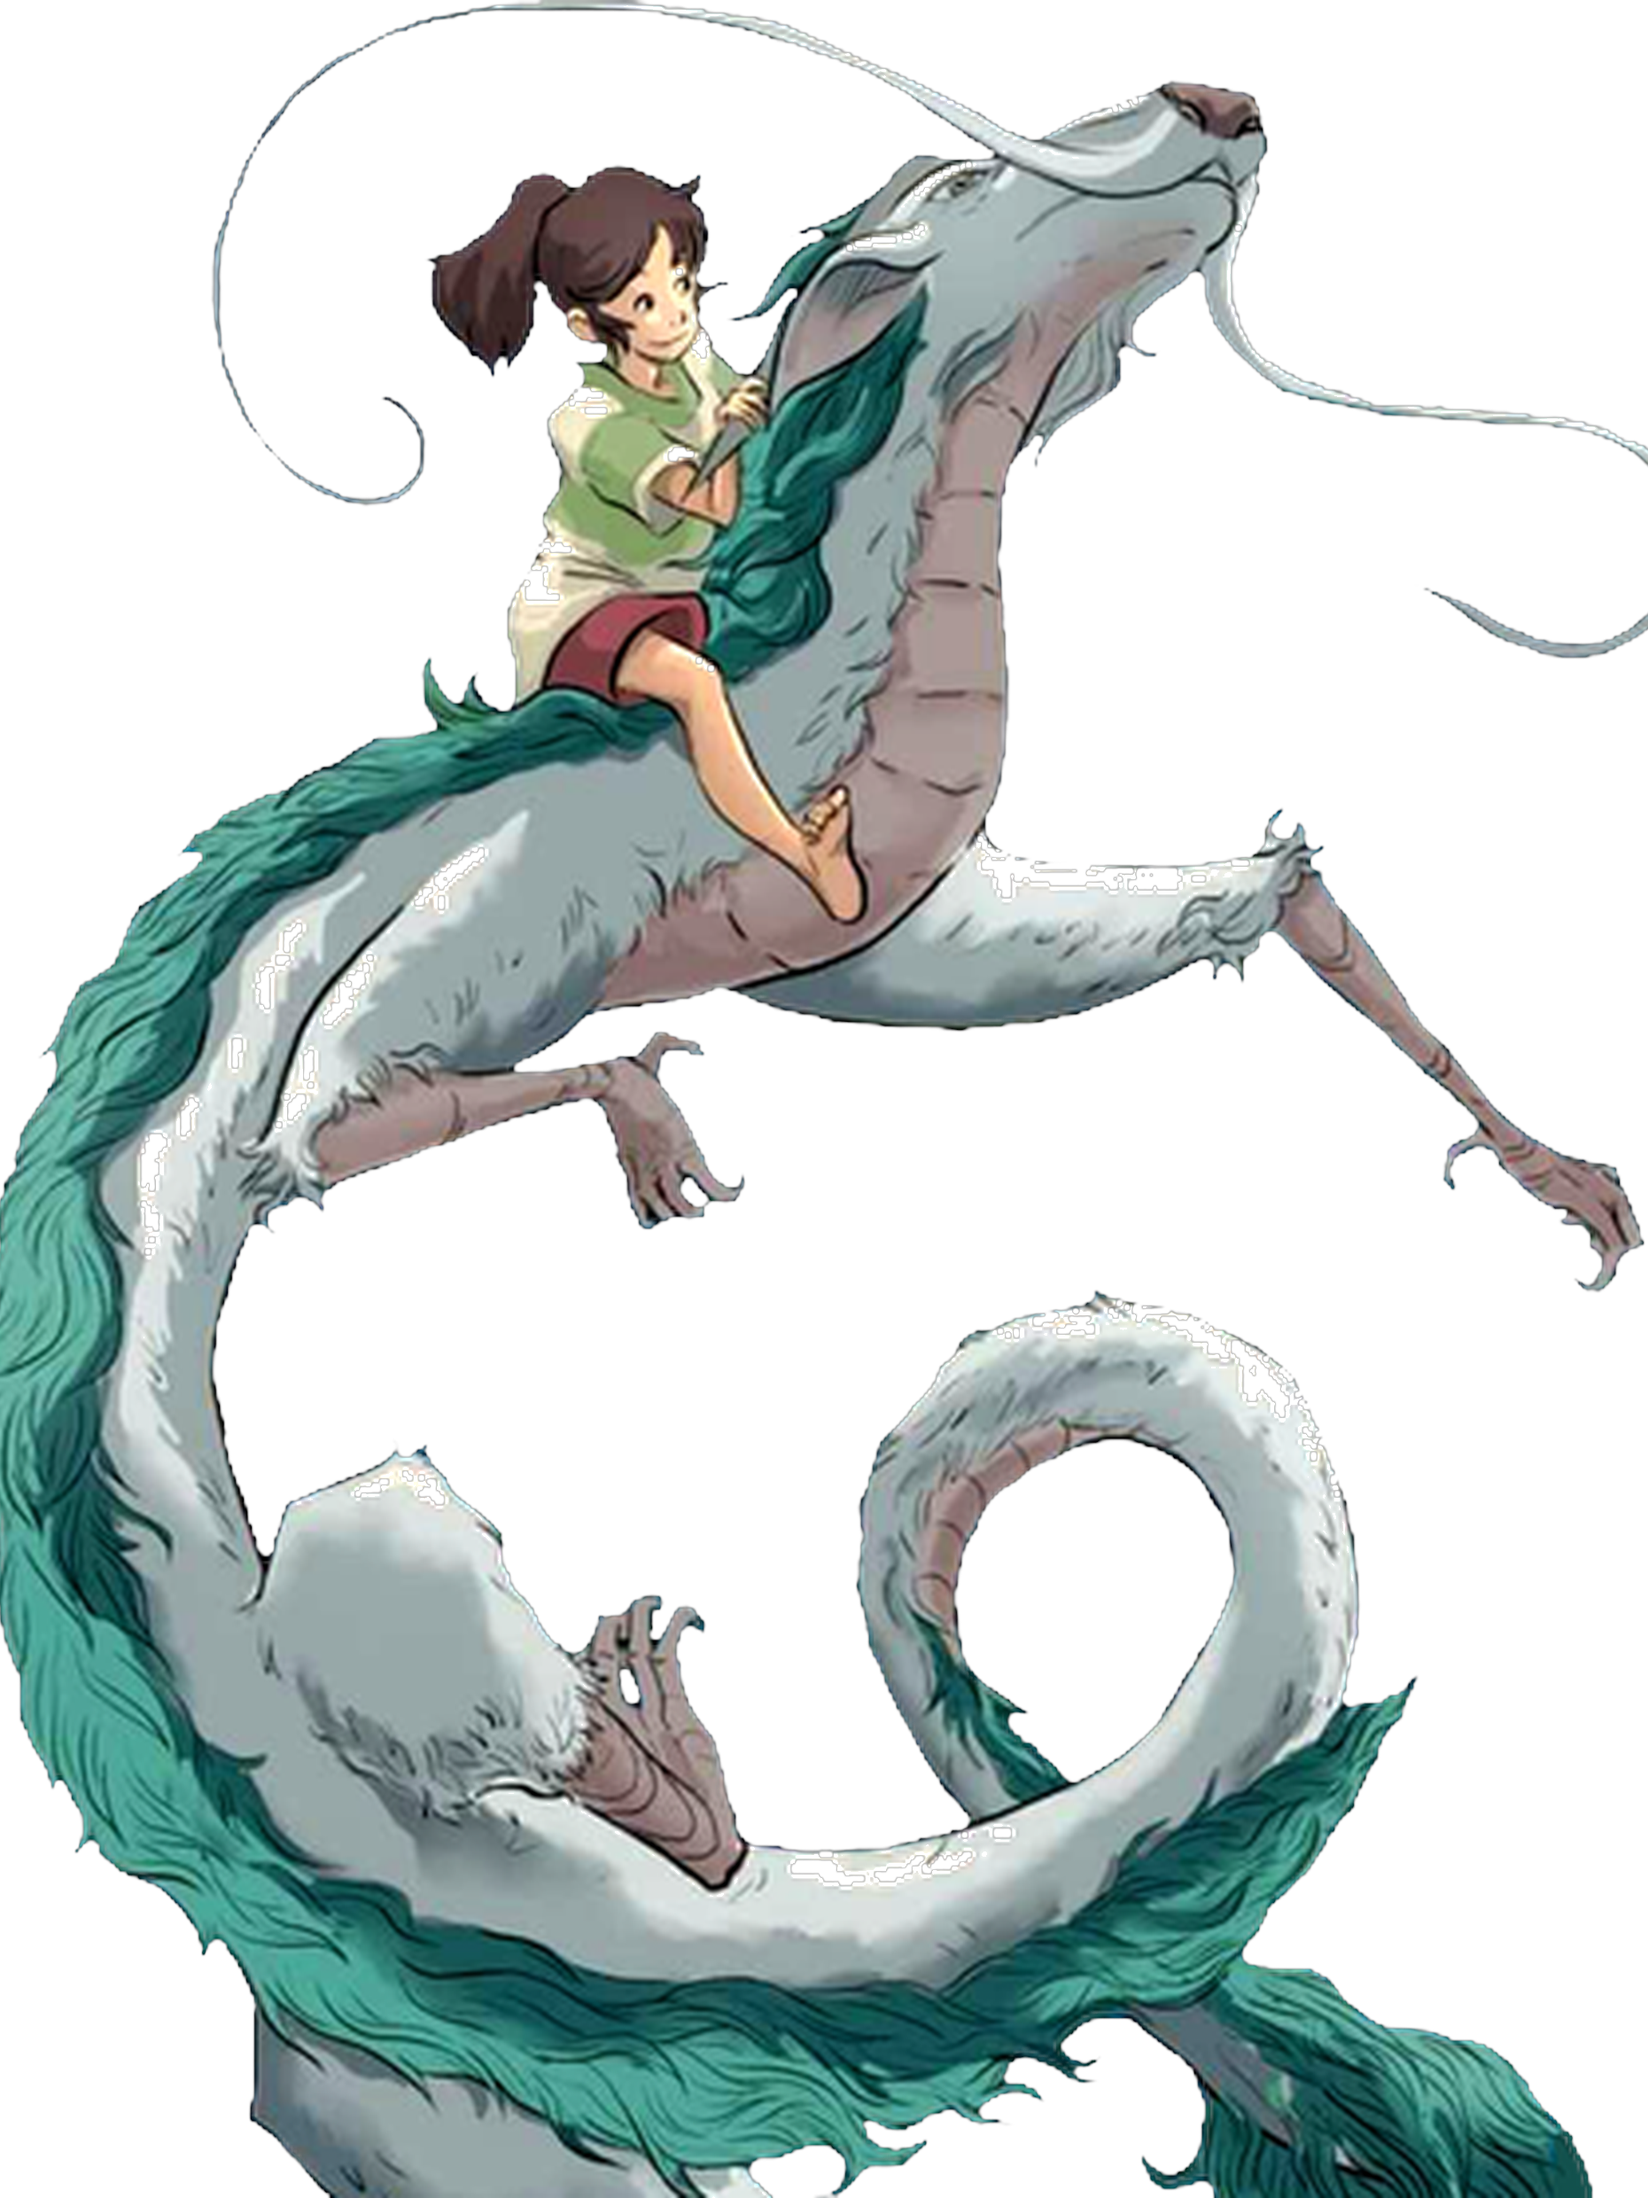
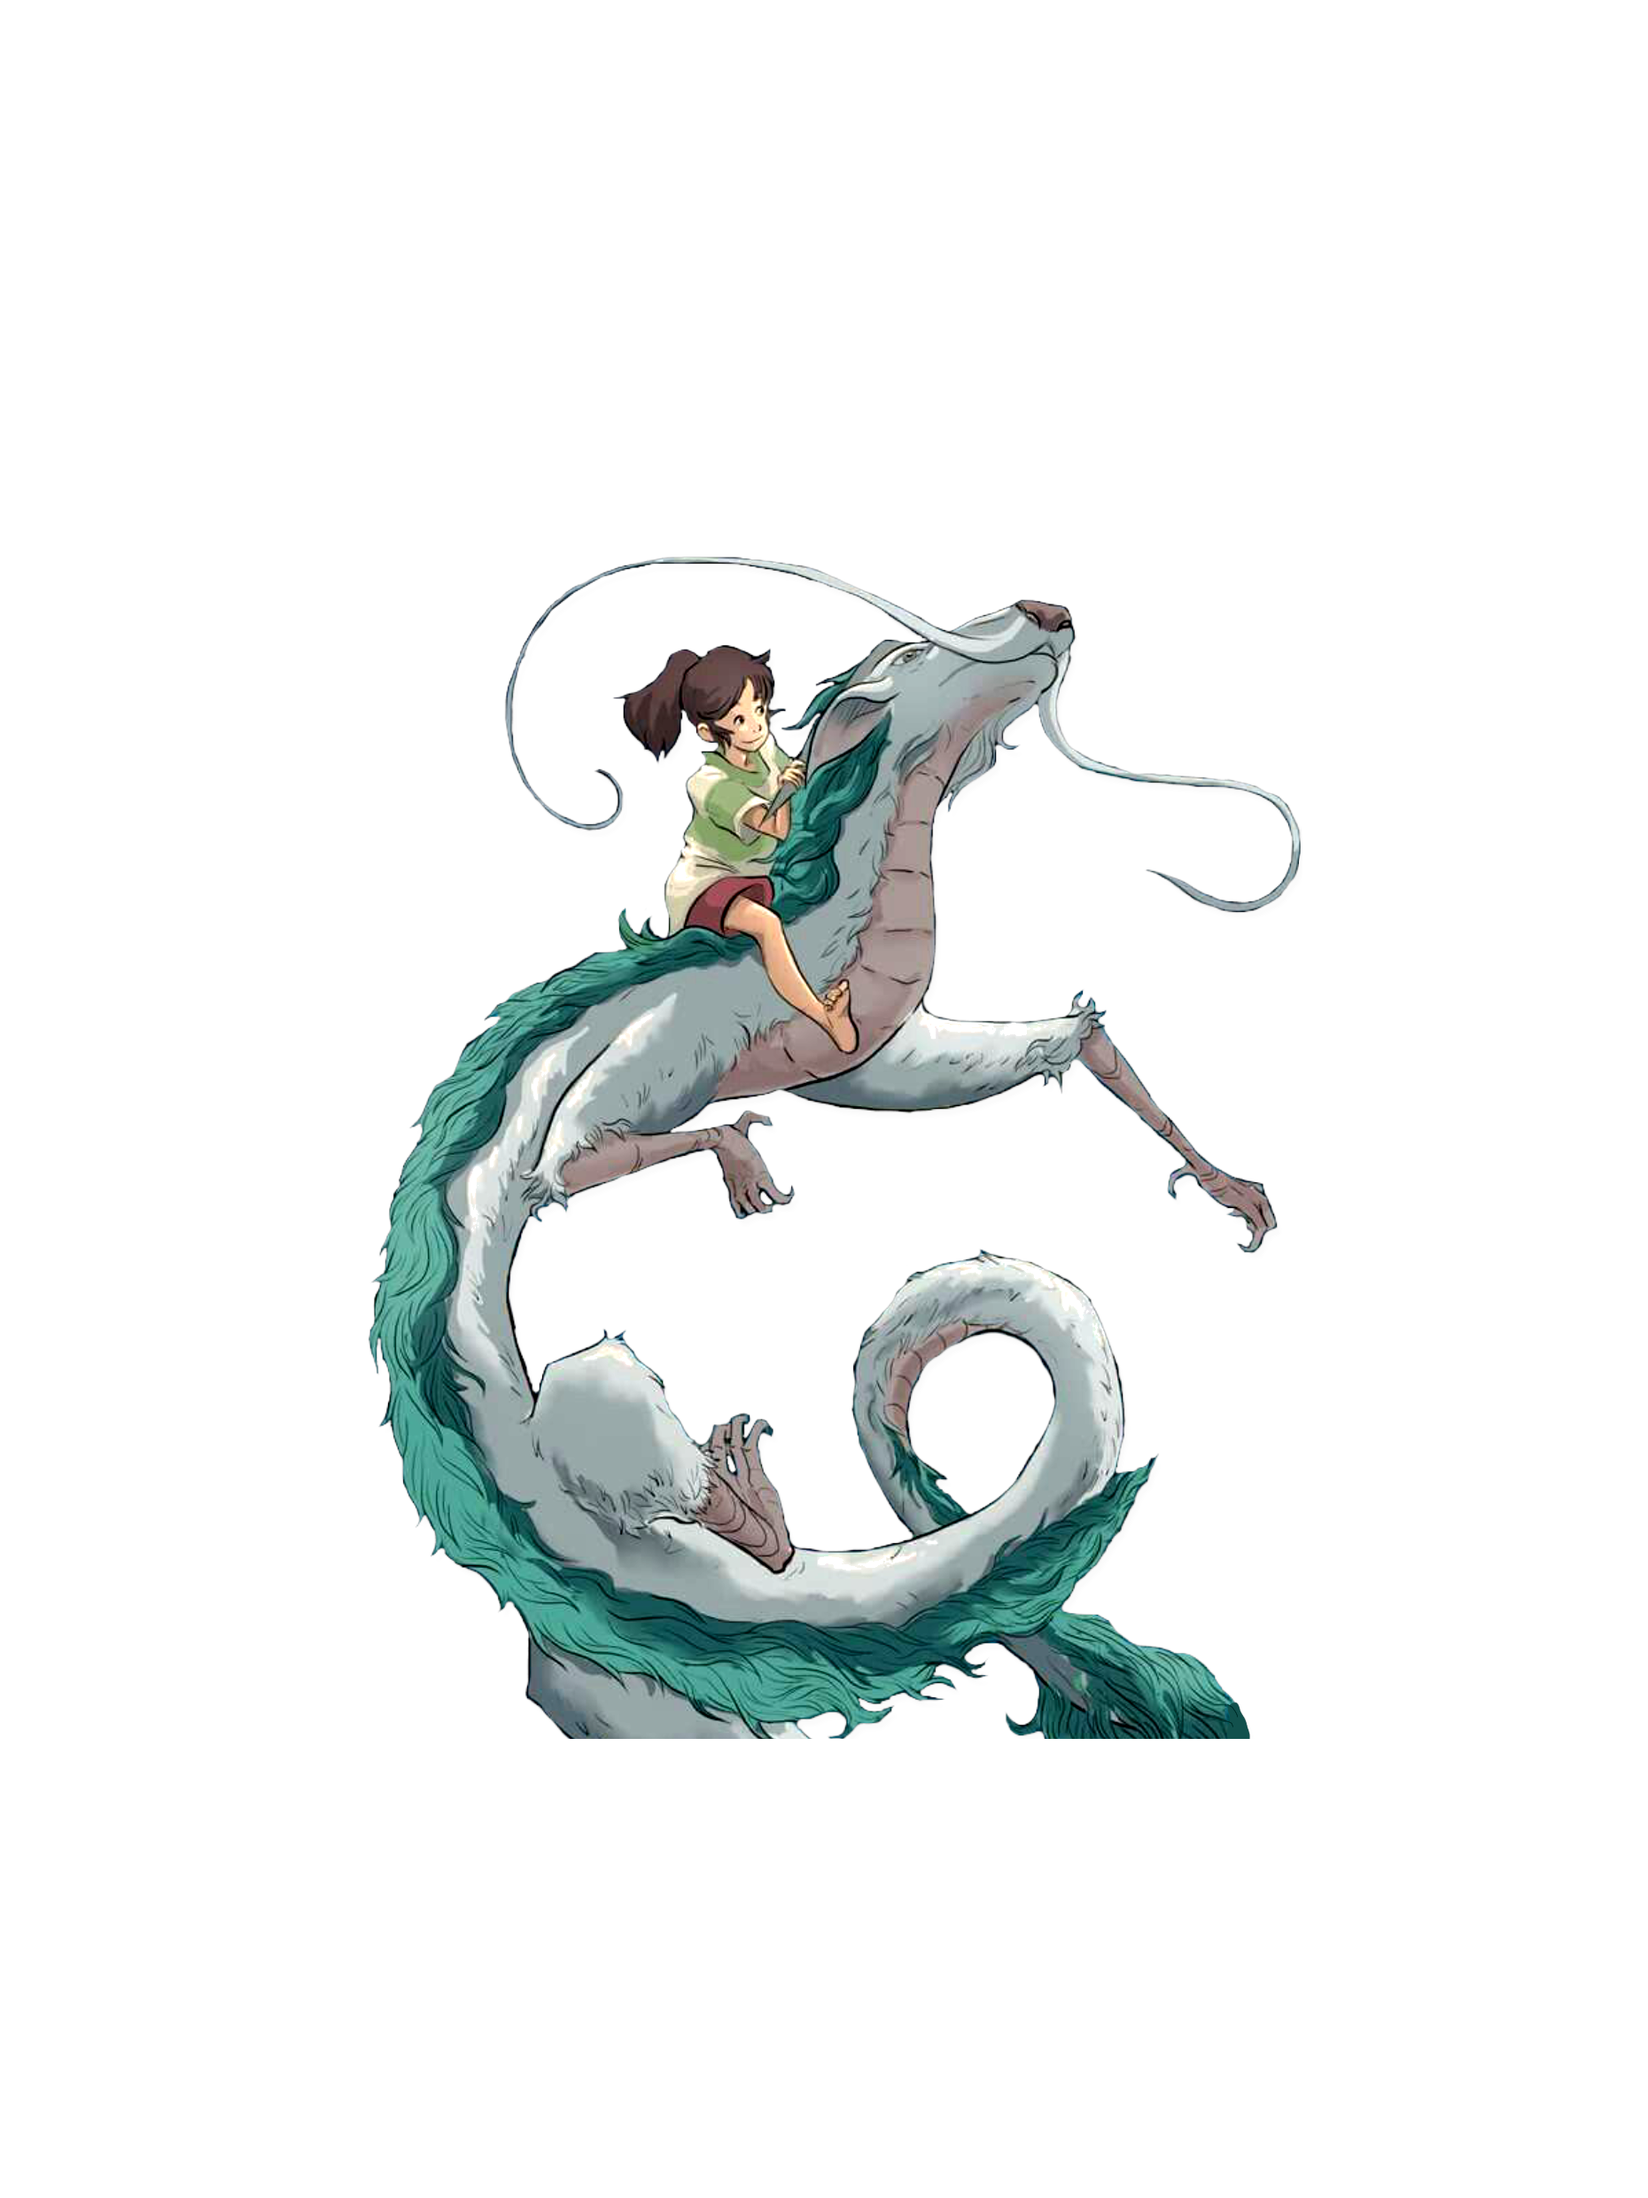
Fix catalog

diff --git a/styles.css b/styles.css
@@ -304,17 +304,18 @@ body::after {
 }
 
 .card-image-wrap.transparent-bg .card-img {
-  object-fit: fill;
   width: 100%;
   height: 100%;
+  object-fit: contain;
   position: absolute;
   inset: 0;
   padding: 0;
+  margin: 0;
   transition: transform 0.4s ease;
 }
 
 .card-image-wrap.transparent-bg:hover .card-img {
-  transform: scale(1.03);
+  transform: scale(1.02);
 }
 
 /* Book Text Mode Preview for Transparent Overlays (Sherlock Holmes - A Study in Scarlet) */

diff --git a/tools/seed/restore_transparent_overlays.py b/tools/seed/restore_transparent_overlays.py
@@ -1,0 +1,70 @@
+import os
+import json
+import urllib.request
+from PIL import Image, ImageOps
+from io import BytesIO
+
+BASE_DIR = os.path.dirname(os.path.abspath(__file__))
+REPO_ROOT = os.path.normpath(os.path.join(BASE_DIR, '..', '..'))
+
+IMAGES_DIR = os.path.join(REPO_ROOT, 'images')
+THUMBS_DIR = os.path.join(IMAGES_DIR, 'thumbnails')
+
+headers = {
+    'User-Agent': 'Mozilla/5.0 (Windows NT 10.0; Win64; x64) AppleWebKit/537.36 StorefrontScreensavers/1.0'
+}
+
+with open(os.path.join(BASE_DIR, 'candidates_transparent.json'), 'r', encoding='utf-8') as f:
+    cands = json.load(f)
+
+print("[+] Re-downloading and properly formatting transparent overlays...")
+
+for c in cands:
+    item_id = c['id']
+    url = c['imageUrl']
+    print(f"Processing {item_id} ({c['title']})...")
+    
+    try:
+        req = urllib.request.Request(url, headers=headers)
+        with urllib.request.urlopen(req, timeout=30) as resp:
+            img_data = resp.read()
+            
+        img = Image.open(BytesIO(img_data)).convert("RGBA")
+        
+        # 1. Convert near-white background pixels (R>238, G>238, B>238) to alpha=0
+        r, g, b, a = img.split()
+        w_r = Image.eval(r, lambda p: 255 if p > 238 else 0)
+        w_g = Image.eval(g, lambda p: 255 if p > 238 else 0)
+        w_b = Image.eval(b, lambda p: 255 if p > 238 else 0)
+        
+        is_white = Image.eval(Image.composite(w_r, Image.new("L", r.size, 0), w_g), lambda p: p)
+        is_white = Image.eval(Image.composite(is_white, Image.new("L", r.size, 0), w_b), lambda p: p)
+        
+        new_a = Image.composite(Image.new("L", r.size, 0), a, is_white)
+        img.putalpha(new_a)
+
+        # 2. Preserve original creator layout & proportion inside 3:4 canvas
+        # Master 1860x2480
+        master_img = Image.new("RGBA", (1860, 2480), (0, 0, 0, 0))
+        img_master = img.copy()
+        img_master.thumbnail((1860, 2480), Image.Resampling.LANCZOS)
+        mx = (1860 - img_master.width) // 2
+        my = (2480 - img_master.height) // 2
+        master_img.paste(img_master, (mx, my), img_master)
+        master_img.save(os.path.join(IMAGES_DIR, f"{item_id}.png"), 'PNG')
+
+        # Thumb 600x800
+        thumb_img = Image.new("RGBA", (600, 800), (0, 0, 0, 0))
+        img_thumb = img.copy()
+        img_thumb.thumbnail((600, 800), Image.Resampling.LANCZOS)
+        tx = (600 - img_thumb.width) // 2
+        ty = (800 - img_thumb.height) // 2
+        thumb_img.paste(img_thumb, (tx, ty), img_thumb)
+        thumb_img.save(os.path.join(THUMBS_DIR, f"{item_id}.png"), 'PNG')
+
+        print(f"  -> Saved {item_id}.png in 600x800 & 1860x2480")
+
+    except Exception as e:
+        print(f"  -> Error on {item_id}: {e}")
+
+print("[+] Done restoring transparent overlays!")
